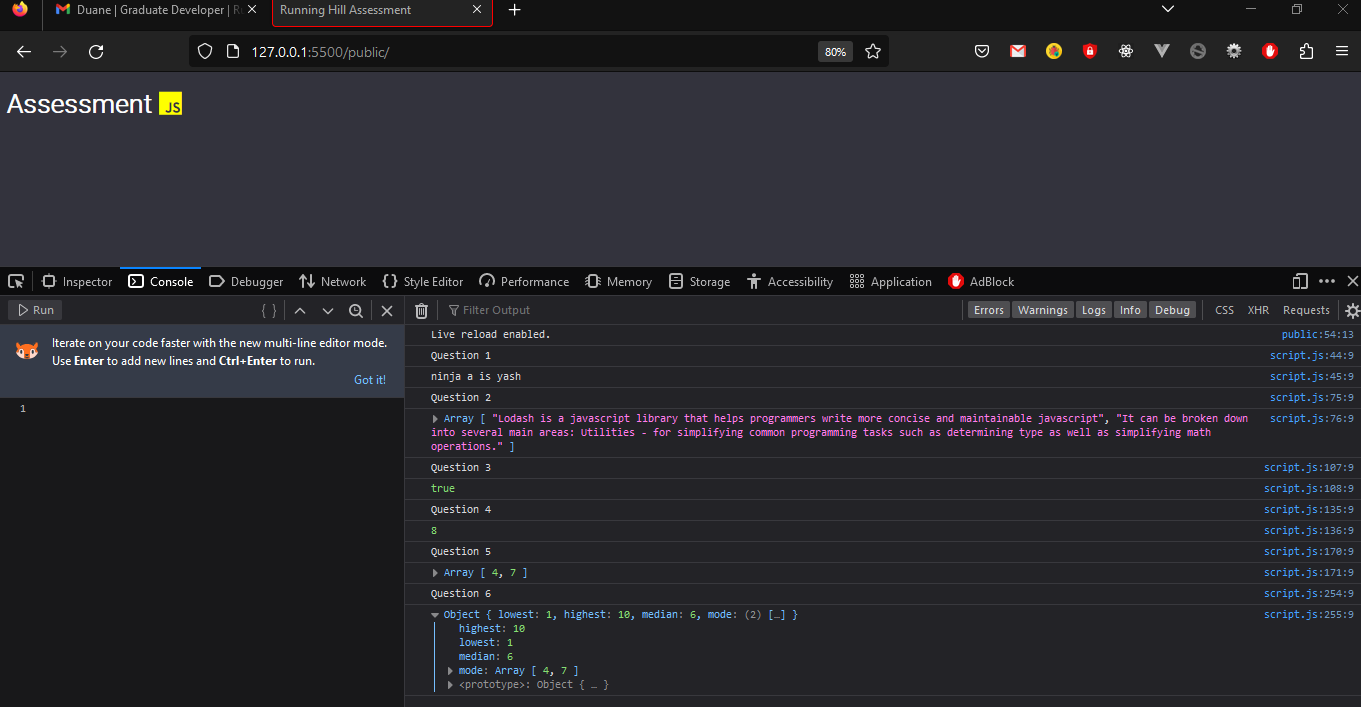
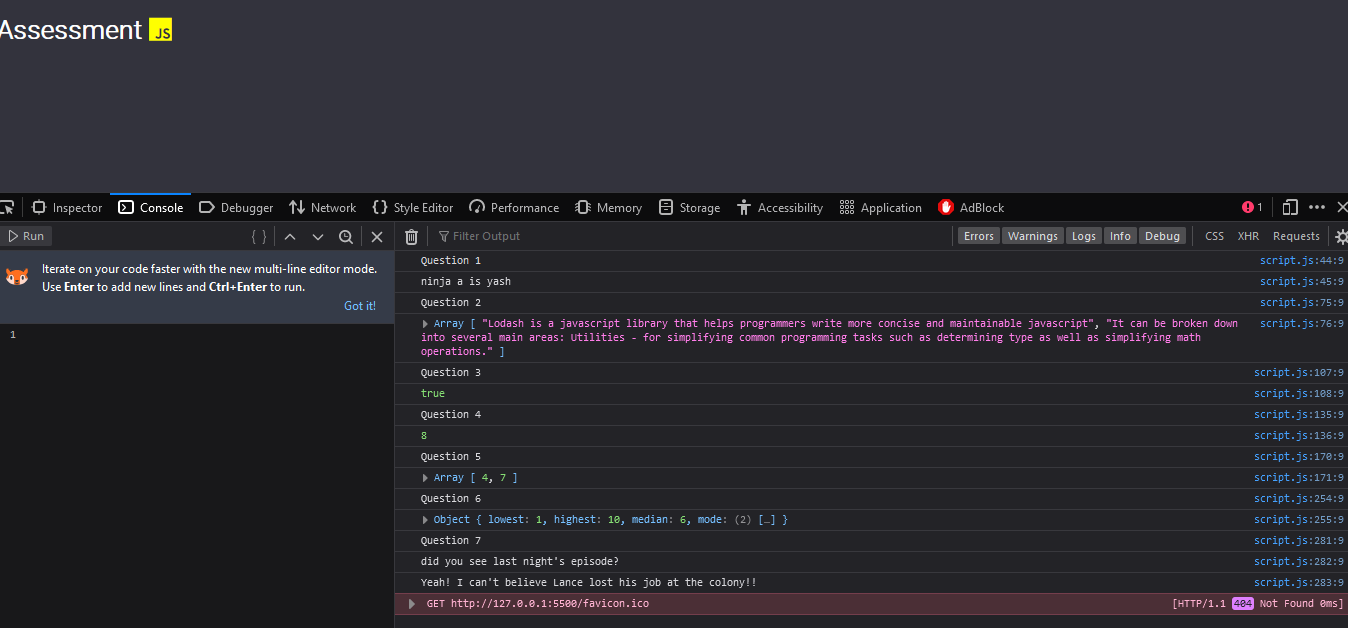
Added Question 7
Added Question 7

Changed region(s): [[0.0, 0.3025, 1.0, 0.9984], [0.0, 0.0, 1.0, 0.1815]]

diff --git a/src/script.ts b/src/script.ts
@@ -275,3 +275,33 @@ const getStatsOnNumberList = (numbers: number[]) => {
 const statsNumberList: number[] = [1, 4, 3, 4, 5, 7, 7, 8, 9, 10];
 console.log('Question 6');
 console.log(getStatsOnNumberList(statsNumberList));
+//----------------------------------------------------------------
+//Question 7
+//abcdefghijklmnopqrstuvwxyz
+//zyxwvutsrqponmlkjihgfedcba
+//eg: so
+/**
+ * Decode the input string based on the provided cipher.
+ * @param {string} enteredString - The encoded string to be decoded.
+ * @returns {string} The decoded message.
+ */
+const decodeMessage = (enteredString: string) => {
+  let decodedMessage = '';
+  for (let i = 0; i < enteredString.length; i++) {
+    let character = enteredString[i];
+    if (character >= 'a' && character <= 'z') {
+      decodedMessage += String.fromCharCode(
+        'a'.charCodeAt(0) + 'z'.charCodeAt(0) - character.charCodeAt(0)
+      );
+    } else {
+      decodedMessage += character;
+    }
+  }
+  return decodedMessage;
+};
+const testOne = "wrw blf hvv ozhg mrtsg'h vkrhlwv?";
+const testTwo = "Yvzs! I xzm'g yvorvev Lzmxv olhg srh qly zg gsv xlolmb!!";
+console.log('Question 7');
+
+console.log(decodeMessage(testOne));
+console.log(decodeMessage(testTwo));

diff --git a/public/script.js b/public/script.js
@@ -253,3 +253,31 @@ const getStatsOnNumberList = (numbers) => {
 const statsNumberList = [1, 4, 3, 4, 5, 7, 7, 8, 9, 10];
 console.log('Question 6');
 console.log(getStatsOnNumberList(statsNumberList));
+//----------------------------------------------------------------
+//Question 7
+//abcdefghijklmnopqrstuvwxyz
+//zyxwvutsrqponmlkjihgfedcba
+//eg: so
+/**
+ * Decode the input string based on the provided cipher.
+ * @param {string} enteredString - The encoded string to be decoded.
+ * @returns {string} The decoded message.
+ */
+const decodeMessage = (enteredString) => {
+    let decodedMessage = '';
+    for (let i = 0; i < enteredString.length; i++) {
+        let character = enteredString[i];
+        if (character >= 'a' && character <= 'z') {
+            decodedMessage += String.fromCharCode('a'.charCodeAt(0) + 'z'.charCodeAt(0) - character.charCodeAt(0));
+        }
+        else {
+            decodedMessage += character;
+        }
+    }
+    return decodedMessage;
+};
+const testOne = "wrw blf hvv ozhg mrtsg'h vkrhlwv?";
+const testTwo = "Yvzs! I xzm'g yvorvev Lzmxv olhg srh qly zg gsv xlolmb!!";
+console.log('Question 7');
+console.log(decodeMessage(testOne));
+console.log(decodeMessage(testTwo));
